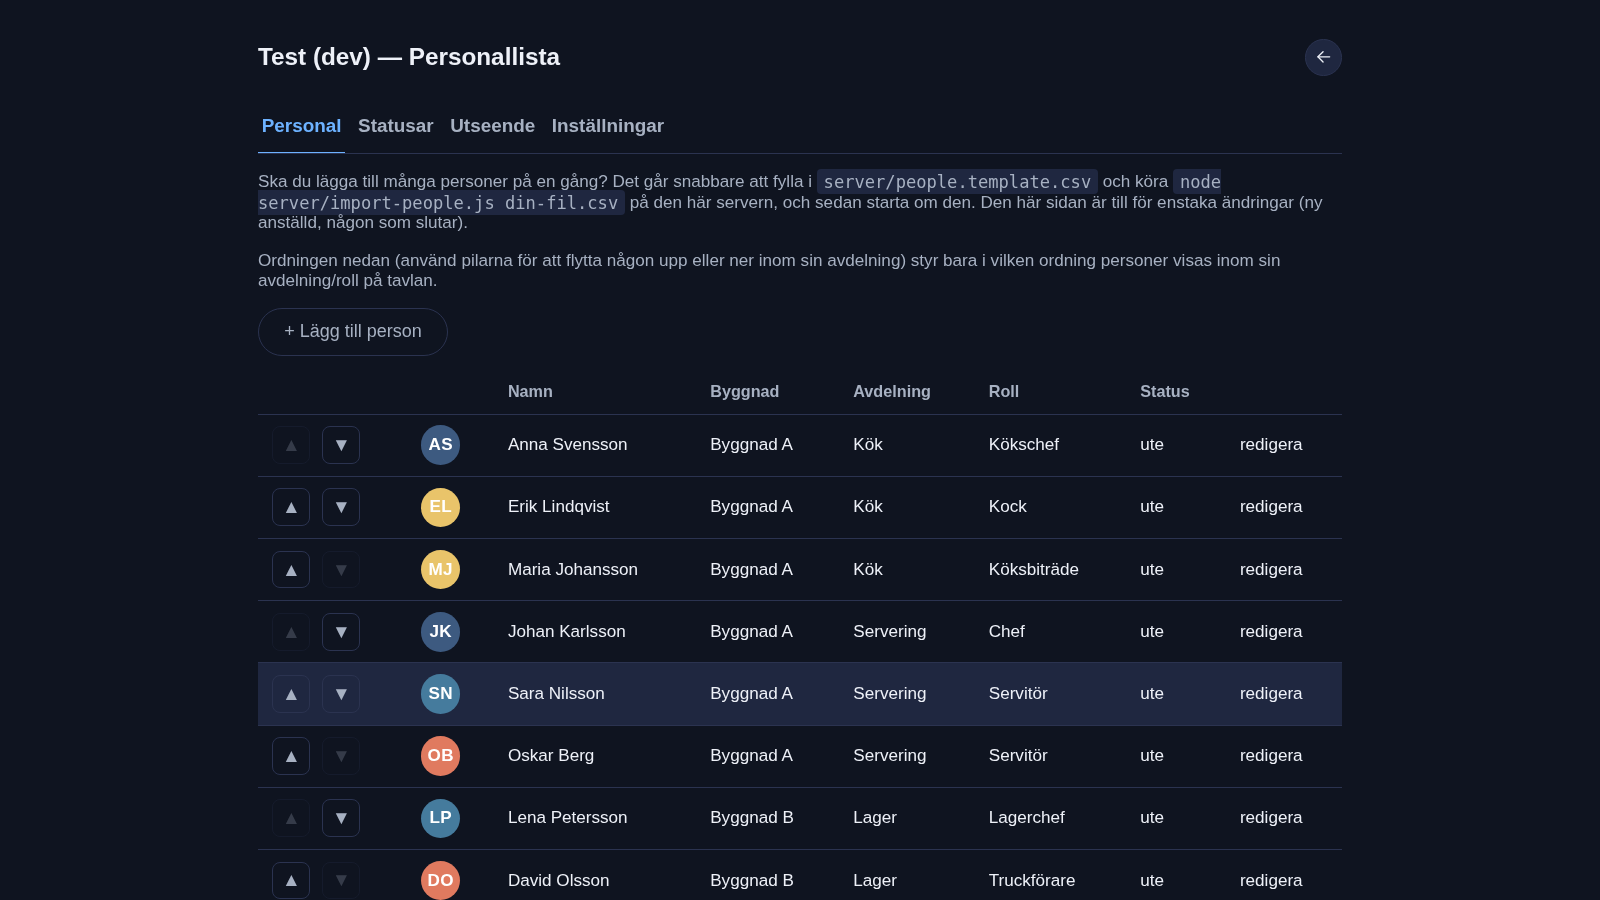
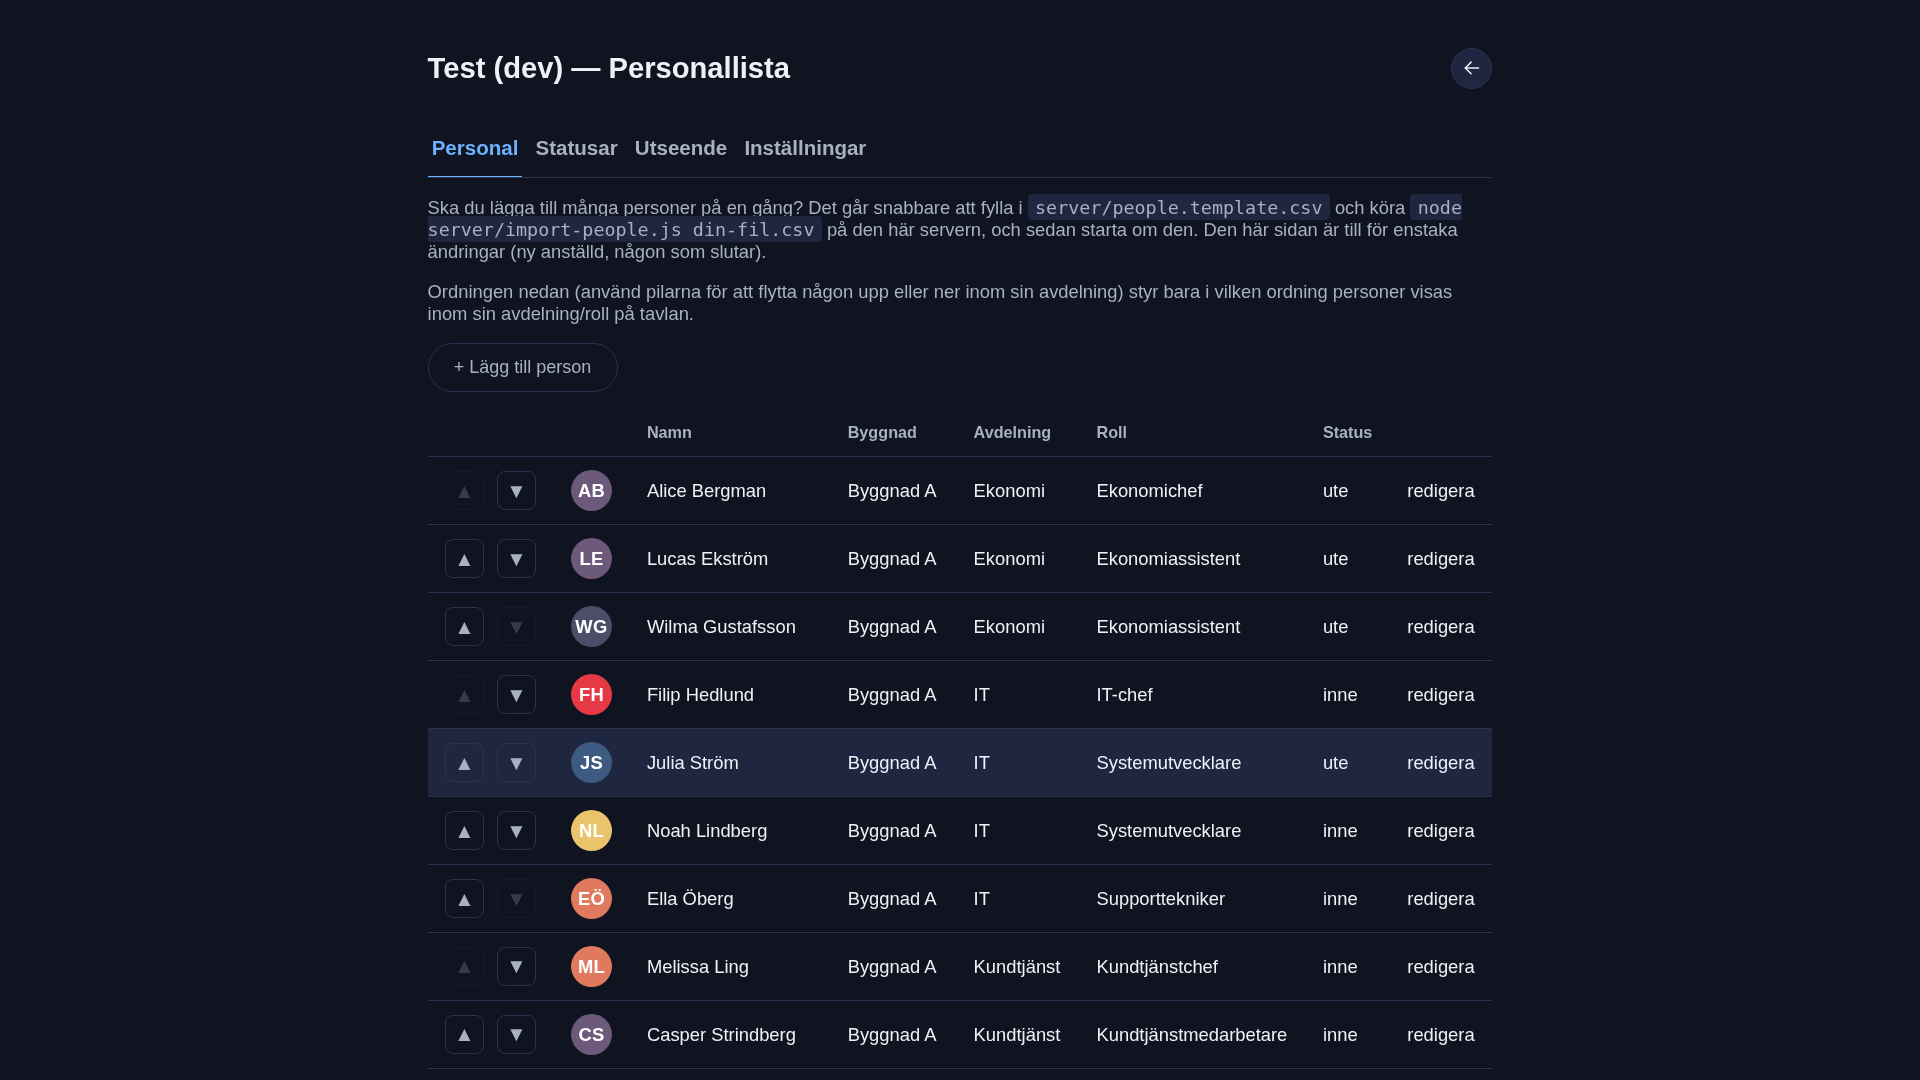
Update README screenshots to a 70-person roster with varied statuses
Board, status popup, and admin roster now show a realistic multi-building,
multi-department roster mixing IN/OUT and every secondary status.

Claude-Session: https://claude.ai/code/session_01WoYrRTt7MpK97A8HcPW7vt

diff --git a/README.md b/README.md
@@ -12,7 +12,7 @@ screens and buildings connect to the same server.
 
 | Board | Status popup | Admin roster |
 |---|---|---|
-| ![Board view, grouped by building and department](docs/screenshots/board.png) | ![Status popup with all status options](docs/screenshots/status-popup.png) | ![Admin roster editor](docs/screenshots/admin-roster.png) |
+| ![Board view with a 70-person roster across three buildings, mixed IN/OUT and status pellets](docs/screenshots/board.png) | ![Status popup with all status options](docs/screenshots/status-popup.png) | ![Admin roster editor showing a large roster](docs/screenshots/admin-roster.png) |
 
 ## Requirements
 
